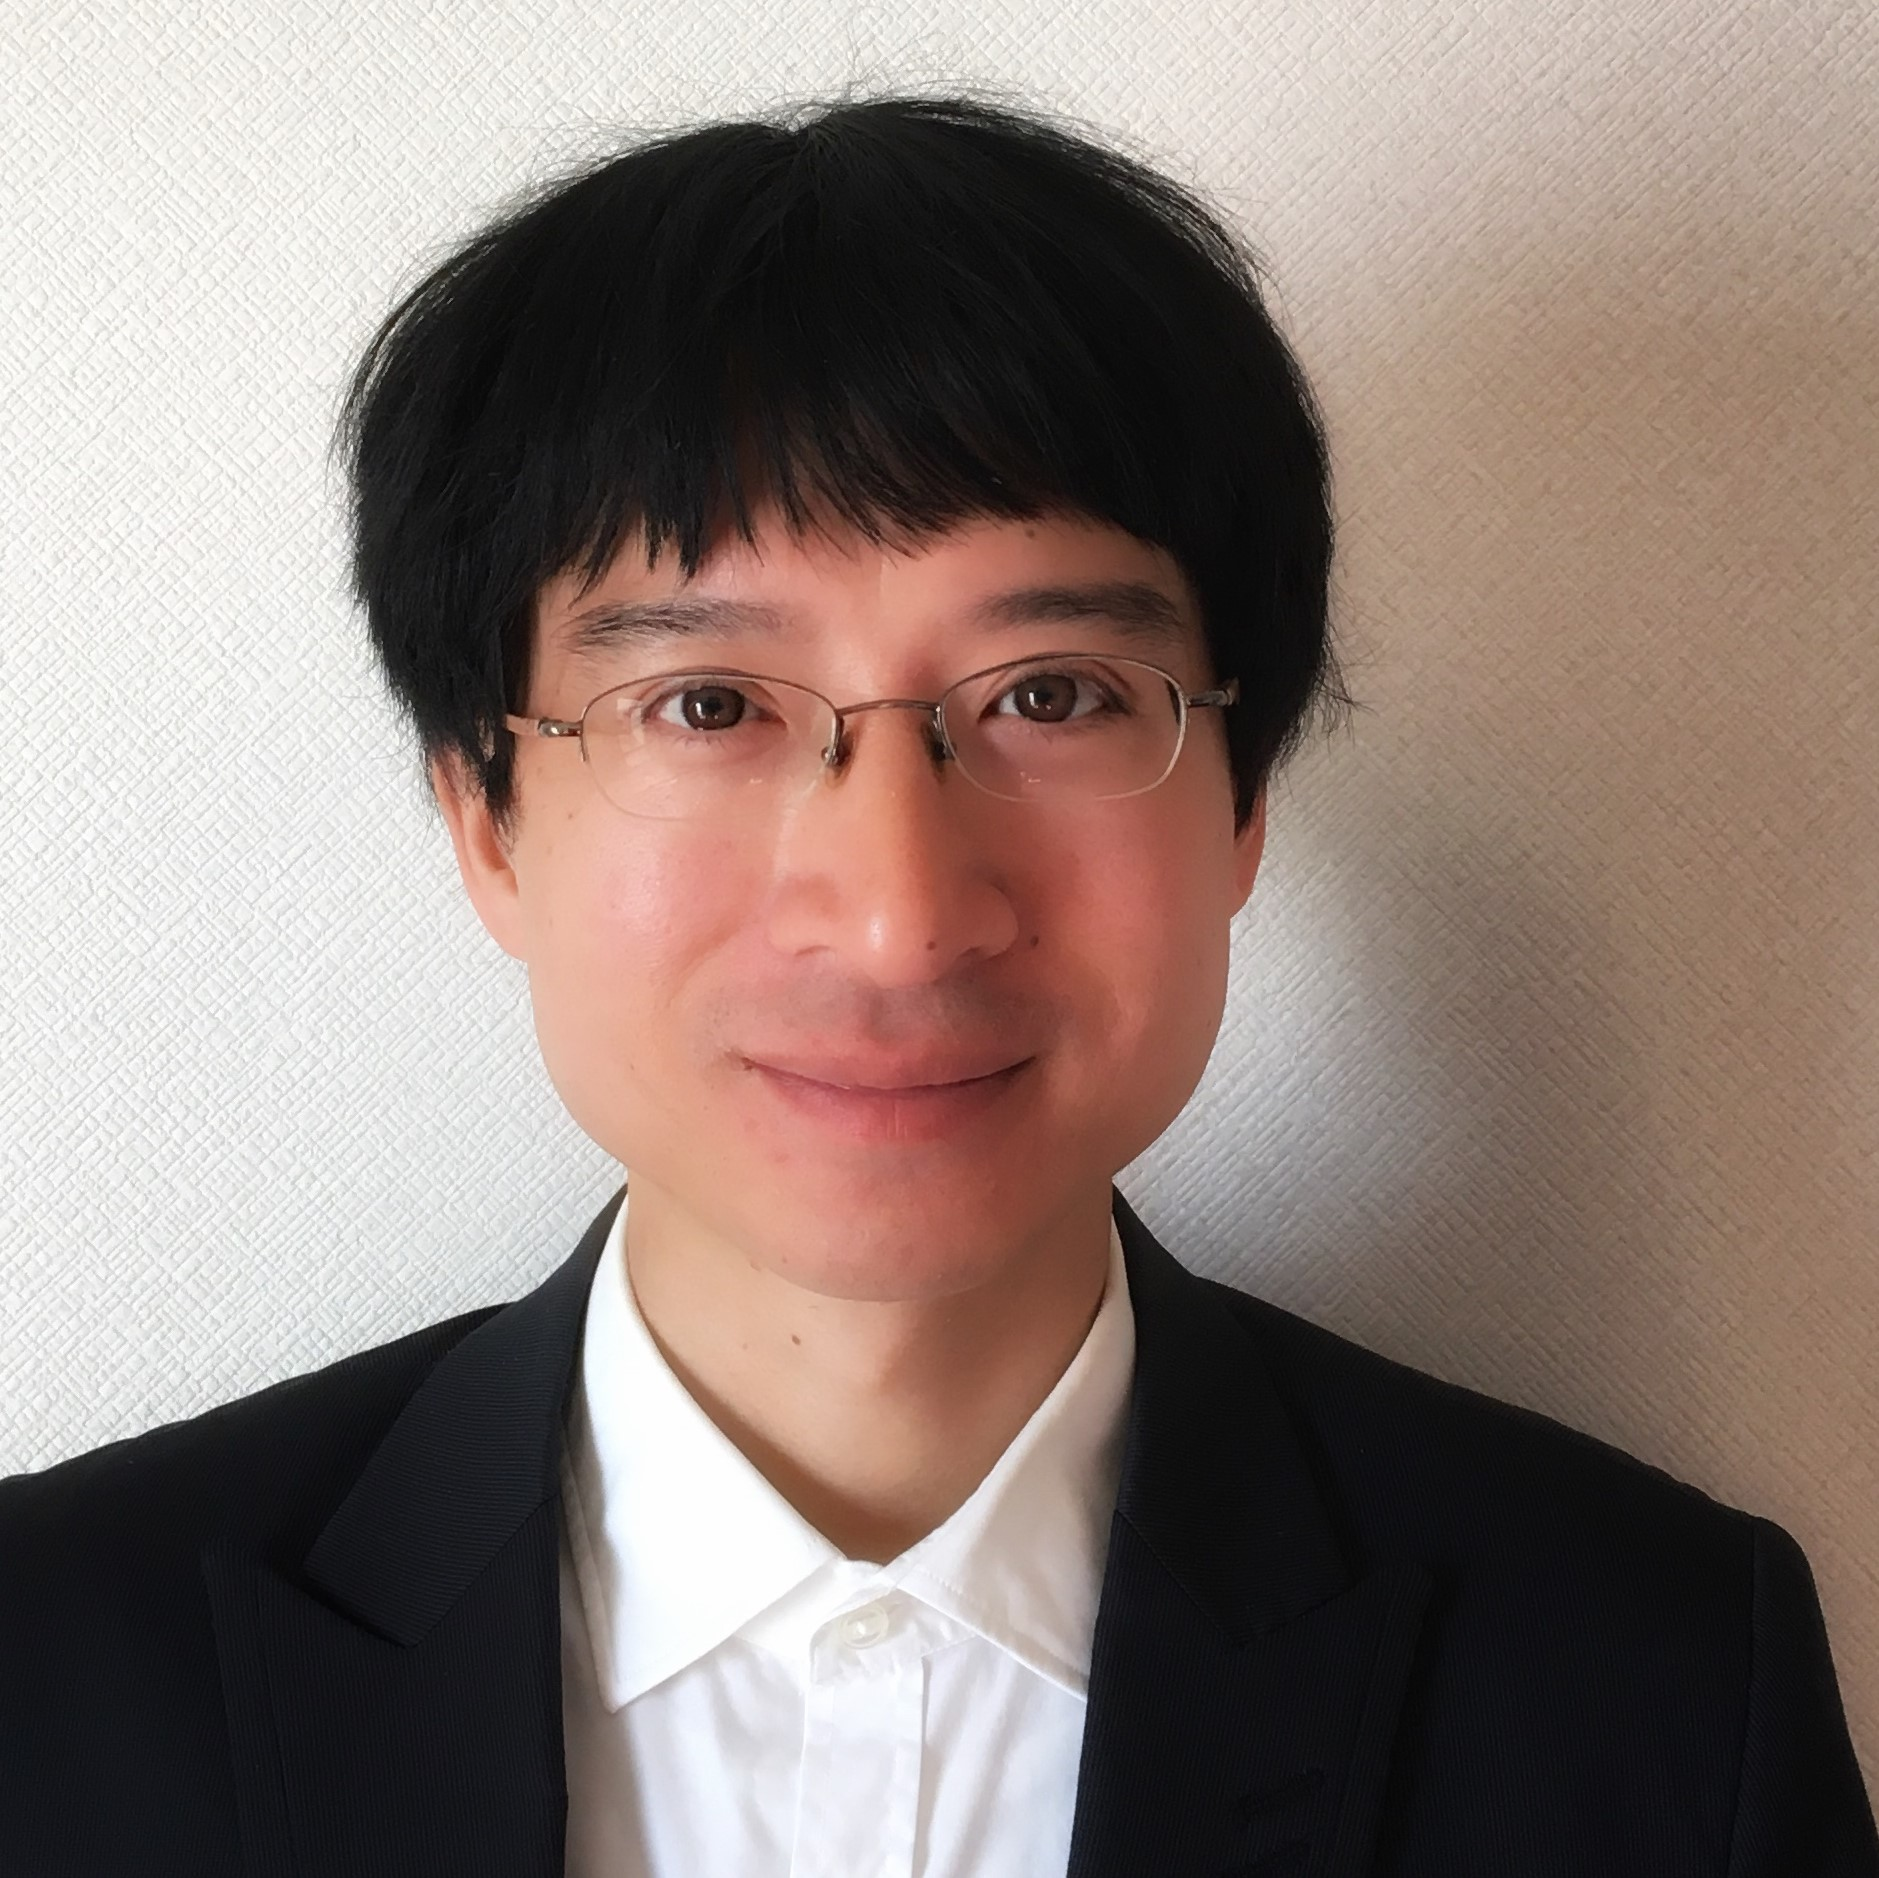
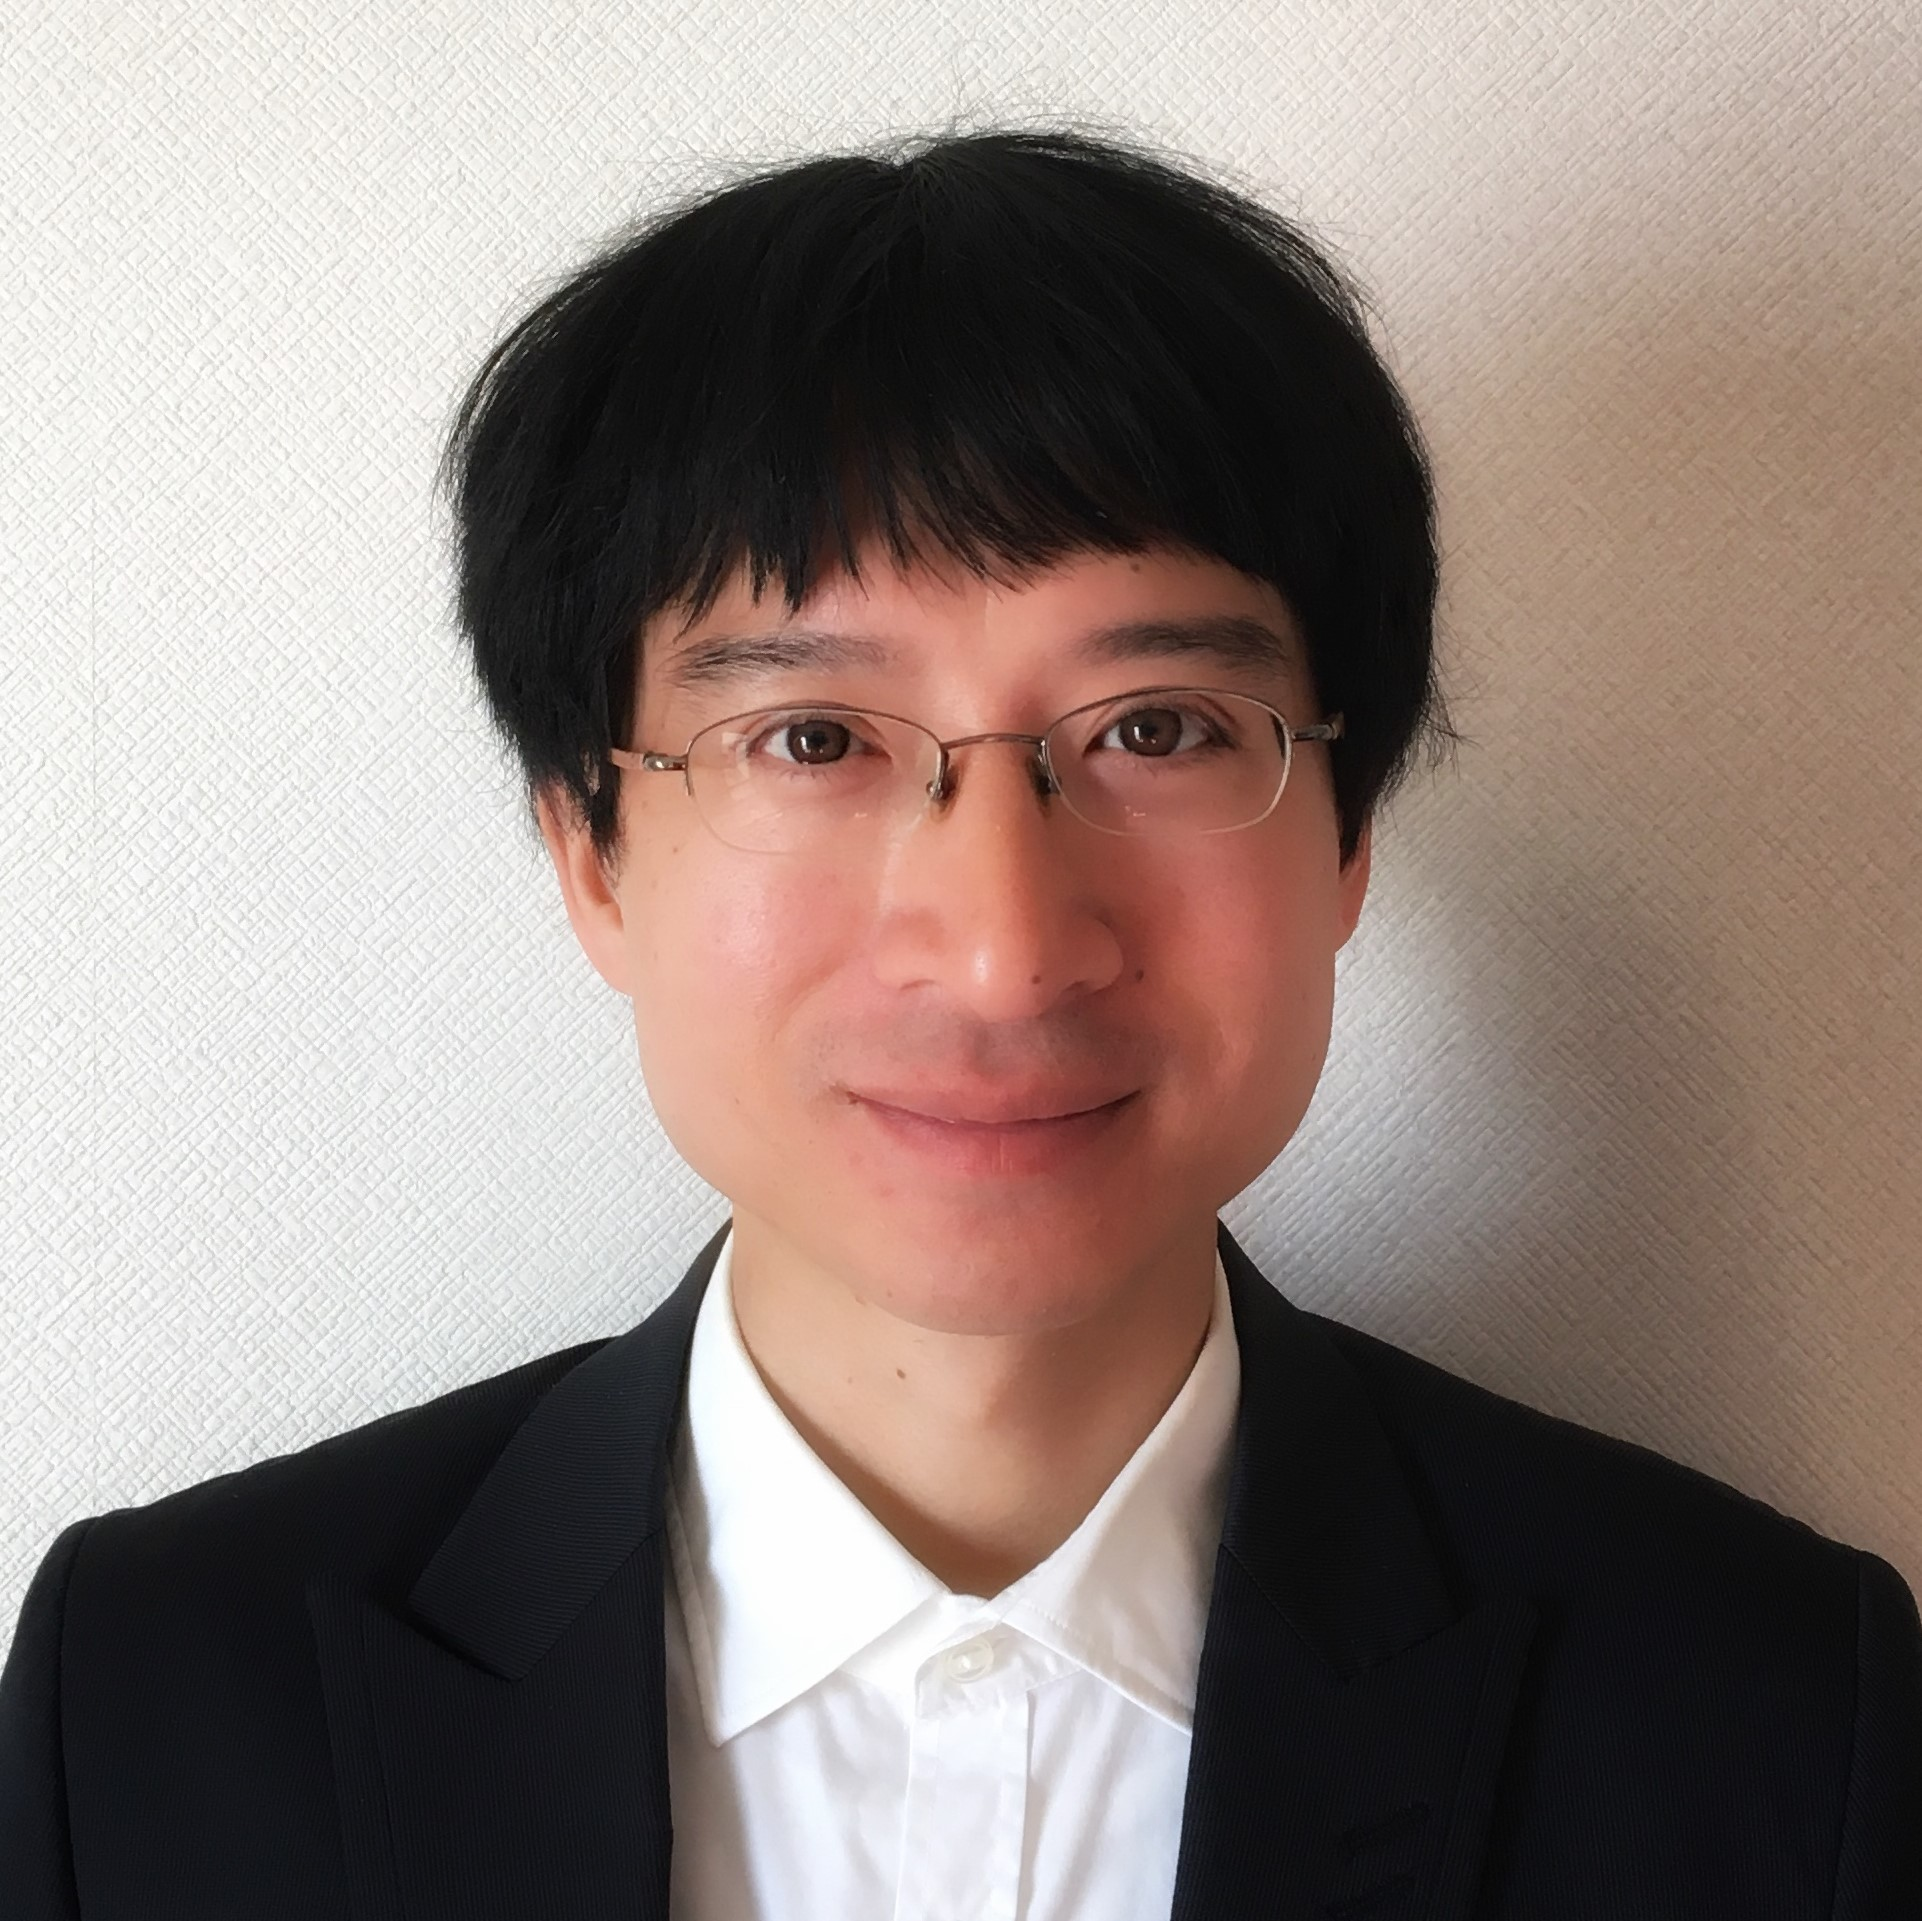
new picture, new bio

diff --git a/index.html b/index.html
@@ -16,8 +16,8 @@ css: "/css/custom.css"
         </div>
         <div class="row">
             <div class="col-lg-7 col-lg-offset-3 col-md-10 col-md-offset-1">
-                <p>Hello, I'm Tha-Phuong Vo. </p>
-                <p>Welcome to my website. I write about <a href="/introduction">languages and programming</a>.</p>
+                <p>Welcome to my website. </p>
+                <p>My name is Tha-Phuong Vo and I write about <a href="/introduction">languages and programming</a>.</p>
                 <p>The site is currently under construction; I expect the site to be finished by the end of May 2020.</p>
                 <p>If you have any questions, please get in touch by emailing me at <code>tom_vo</code> at <code>outlook.com</code>.</p>
             </div>

diff --git a/introduction.md b/introduction.md
@@ -1,7 +1,7 @@
 ---
 layout: page
 title: Tha-Phuong Vo
-subtitle: 'Languages and Codeing'
+subtitle: 'Languages and Coding'
 head-title: "Tha-Phuong Vo - Languages and Coding"
 image: /img/me.jpg
 css: "../css/custom.css"
@@ -10,7 +10,7 @@ A short introduction:
 
 My main interests and expertise are in the areas of Languages & Culture and Programming & Information Technology.
 
-**Programming**: I first started programming in Turbo Pascal and Delphi at high school in 1996, and have been part of  web development since the first PHP CMS in 2001 (PHP-Nuke). My current areas of interest are App Development with Flutter/Dart, JavaScript Frameworks (React), and the Lisp/Scheme descendant Racket.  
+**Programming**: I started programming in Turbo Pascal and Delphi with the computer course at high school, and have been part of  web development since the first PHP CMS in 2001 (PHP-Nuke). My current areas of interest are App Development with Flutter/Dart, JavaScript Frameworks (React), and the Lisp/Scheme descendant Racket.  
 
 **Languages & Culture**: I have over 15 years of intercultural work experience in four languages in Europe and Asia (Japan, Vietnam). As a coordinator for the SLI (University of Freiburg), I organized and oversaw the programs for the International Language Courses with more than 1,000 participants from over 58 countries per year. 
 
